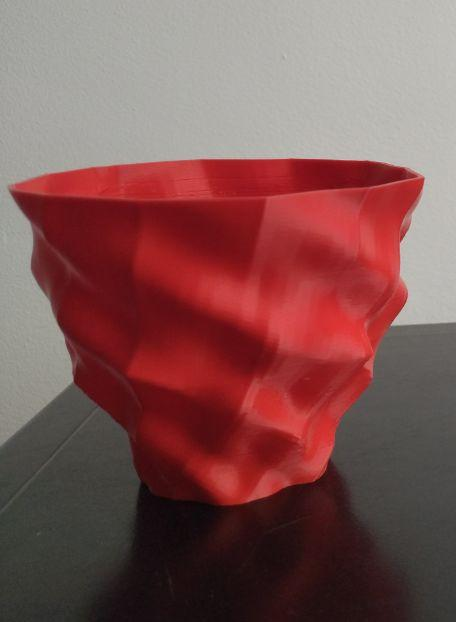
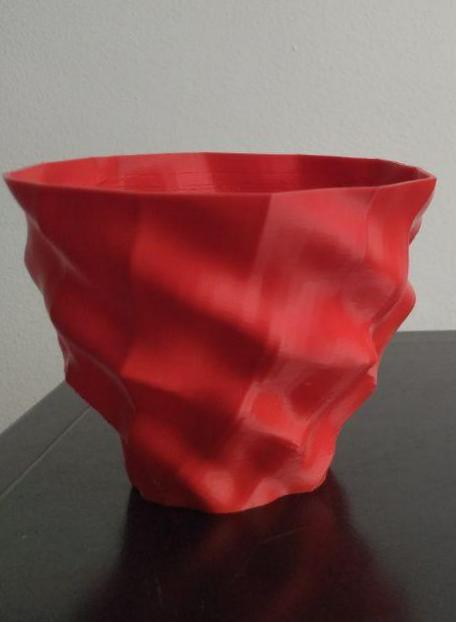
1.1.11 Fix: Adoucit les transitions de la galerie du hero et reduit legerement les images dans la bulle

diff --git a/src/App.tsx b/src/App.tsx
@@ -17,6 +17,9 @@ const HERO_GALLERY_IMAGES = Object.entries(HERO_GALLERY_IMAGE_MODULES)
   .sort(([leftPath], [rightPath]) => leftPath.localeCompare(rightPath))
   .map(([, source]) => source);
 
+const HERO_GALLERY_INTERVAL_MS = 4200;
+const HERO_GALLERY_FADE_MS = 480;
+
 function App() {
   const setShowGrid = useUIStore((s) => s.setShowGrid);
   const setWireframe = useUIStore((s) => s.setWireframe);
@@ -40,6 +43,7 @@ function App() {
   const [customerAddress, setCustomerAddress] = useState("");
   const [customerMessage, setCustomerMessage] = useState("");
   const [heroGalleryIndex, setHeroGalleryIndex] = useState(0);
+  const [isHeroGalleryVisible, setIsHeroGalleryVisible] = useState(true);
 
   const currentEntry = entries[currentIndex] ?? null;
   const selectedEntry = useMemo(
@@ -80,14 +84,25 @@ function App() {
   useEffect(() => {
     if (HERO_GALLERY_IMAGES.length <= 1) {
       setHeroGalleryIndex(0);
+      setIsHeroGalleryVisible(true);
       return undefined;
     }
 
+    let swapTimeoutId: number | undefined;
     const intervalId = window.setInterval(() => {
-      setHeroGalleryIndex((currentIndex) => (currentIndex + 1) % HERO_GALLERY_IMAGES.length);
-    }, 3200);
+      setIsHeroGalleryVisible(false);
+      swapTimeoutId = window.setTimeout(() => {
+        setHeroGalleryIndex((currentIndex) => (currentIndex + 1) % HERO_GALLERY_IMAGES.length);
+        setIsHeroGalleryVisible(true);
+      }, HERO_GALLERY_FADE_MS);
+    }, HERO_GALLERY_INTERVAL_MS);
 
-    return () => window.clearInterval(intervalId);
+    return () => {
+      window.clearInterval(intervalId);
+      if (swapTimeoutId !== undefined) {
+        window.clearTimeout(swapTimeoutId);
+      }
+    };
   }, []);
 
   return (
@@ -124,7 +139,11 @@ function App() {
                 <div className="shop-hero-gallery" aria-label="Photos d'atelier">
                   <div className="shop-hero-gallery-orb">
                     {currentHeroGalleryImage ? (
-                      <img key={currentHeroGalleryImage} src={currentHeroGalleryImage} alt="" />
+                      <img
+                        className={`shop-hero-gallery-image ${isHeroGalleryVisible ? "is-visible" : ""}`}
+                        src={currentHeroGalleryImage}
+                        alt=""
+                      />
                     ) : (
                       <div className="shop-hero-gallery-placeholder">
                         <span>Ajoutez vos photos</span>

diff --git a/src/App.css b/src/App.css
@@ -222,12 +222,24 @@
   pointer-events: none;
 }
 
-.shop-hero-gallery-orb img {
-  width: 100%;
-  height: 100%;
+.shop-hero-gallery-image {
+  position: absolute;
+  inset: 14px;
+  width: calc(100% - 28px);
+  height: calc(100% - 28px);
   object-fit: cover;
   display: block;
-  animation: shop-gallery-fade 0.6s ease;
+  border-radius: 999px;
+  opacity: 0;
+  transform: scale(1.02);
+  transition:
+    opacity 0.48s ease-in-out,
+    transform 0.72s ease-in-out;
+}
+
+.shop-hero-gallery-image.is-visible {
+  opacity: 1;
+  transform: scale(1);
 }
 
 .shop-hero-gallery-placeholder {
@@ -581,18 +593,6 @@
 .viewer-3d canvas {
   width: 100% !important;
   height: 100% !important;
-}
-
-@keyframes shop-gallery-fade {
-  from {
-    opacity: 0;
-    transform: scale(1.04);
-  }
-
-  to {
-    opacity: 1;
-    transform: scale(1);
-  }
 }
 
 @media (width <= 1080px) {

diff --git a/Changelog.md b/Changelog.md
@@ -7,6 +7,11 @@ et ce projet suit un versioning de type **SemVer**.
 
 ---
 
+## [1.1.11] - 2026-05-02
+
+### Modifié
+- Adoucit les transitions de la galerie du hero et reduit legerement les images dans la bulle
+
 ## [1.1.10] - 2026-05-02
 
 ### Modifié
